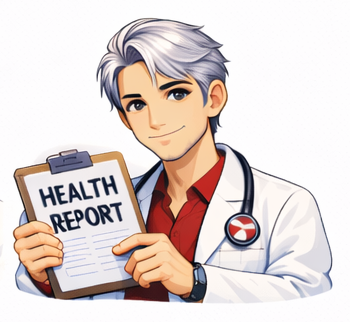
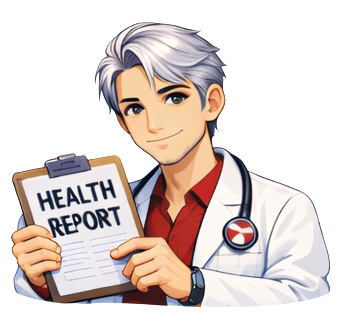
fix: gemini model fallback, prompt optimization, and new mascot assets
Made-with: Cursor

Changed region(s): [[0.0286, 0.0311, 0.9714, 0.9627], [0.6857, 0.9006, 0.7429, 0.9627]]

diff --git a/src/hooks/useGemini.ts b/src/hooks/useGemini.ts
@@ -1,5 +1,5 @@
 import { useState, useRef, useCallback } from 'react';
-import { createDoctorChat, sendMessage, parseTriageResult, extractCleanText, type ChatSession } from '../services/gemini';
+import { createDoctorChat, sendMessage, parseTriageResult, extractCleanText, MODEL_PRIORITY, type ChatSession } from '../services/gemini';
 import type { TriageResult } from '../constants';
 
 export interface TranscriptMessage {
@@ -12,40 +12,65 @@ export const useGemini = () => {
   const [transcript, setTranscript] = useState<TranscriptMessage[]>([]);
   const [isThinking, setIsThinking] = useState(false);
   const [triageResult, setTriageResult] = useState<TriageResult | null>(null);
+  const [error, setError] = useState<string | null>(null);
   const chatRef = useRef<ChatSession | null>(null);
+  const modelIndexRef = useRef(0);
 
-  const initChat = useCallback(() => {
-    chatRef.current = createDoctorChat();
+  const initChat = useCallback((modelName?: string) => {
+    chatRef.current = createDoctorChat(modelName ?? MODEL_PRIORITY[modelIndexRef.current]);
     setTranscript([]);
     setTriageResult(null);
+    setError(null);
   }, []);
 
-  const startCall = useCallback(async (vitals?: { heartRate?: number | null; breathingRate?: number | null; stressLevel?: number | null }): Promise<string> => {
-    if (!chatRef.current) initChat();
+  const startCall = useCallback(async (vitals?: {
+    heartRate?: number | null;
+    breathingRate?: number | null;
+    stressLevel?: number | null;
+  }): Promise<string> => {
     setIsThinking(true);
-    try {
-      const rawResponse = await sendMessage(
-        chatRef.current!,
-        'The patient has just joined the video call. Please warmly greet them as Dr. Maple and ask what brings them in today.',
-        vitals
-      );
-      const cleanText = extractCleanText(rawResponse);
-      const triage = parseTriageResult(rawResponse);
-      if (triage) setTriageResult(triage);
+    setError(null);
 
-      setTranscript([{ role: 'doctor', text: cleanText, timestamp: new Date() }]);
-      return cleanText;
-    } finally {
-      setIsThinking(false);
+    // Try each model in priority order
+    for (let i = modelIndexRef.current; i < MODEL_PRIORITY.length; i++) {
+      try {
+        initChat(MODEL_PRIORITY[i]);
+        modelIndexRef.current = i;
+        const rawResponse = await sendMessage(
+          chatRef.current!,
+          'The patient has just joined the video call. Please warmly greet them as Dr. Maple and ask what brings them in today.',
+          vitals
+        );
+        const cleanText = extractCleanText(rawResponse);
+        const triage = parseTriageResult(rawResponse);
+        if (triage) setTriageResult(triage);
+        setTranscript([{ role: 'doctor', text: cleanText, timestamp: new Date() }]);
+        setIsThinking(false);
+        return cleanText;
+      } catch (err) {
+        console.warn(`Model ${MODEL_PRIORITY[i]} failed, trying next...`, err);
+        if (i === MODEL_PRIORITY.length - 1) {
+          const msg = err instanceof Error ? err.message : 'Gemini API error';
+          setError(`AI connection failed: ${msg}`);
+          setIsThinking(false);
+          return '';
+        }
+      }
     }
+    setIsThinking(false);
+    return '';
   }, [initChat]);
 
   const sendPatientMessage = useCallback(async (
     patientText: string,
     vitals?: { heartRate?: number | null; breathingRate?: number | null; stressLevel?: number | null }
   ): Promise<string> => {
-    if (!chatRef.current) return '';
+    if (!chatRef.current) {
+      setError('Session expired — please end and restart the call.');
+      return '';
+    }
     setIsThinking(true);
+    setError(null);
     setTranscript(prev => [...prev, { role: 'patient', text: patientText, timestamp: new Date() }]);
 
     try {
@@ -53,9 +78,13 @@ export const useGemini = () => {
       const cleanText = extractCleanText(rawResponse);
       const triage = parseTriageResult(rawResponse);
       if (triage) setTriageResult(triage);
-
       setTranscript(prev => [...prev, { role: 'doctor', text: cleanText, timestamp: new Date() }]);
       return cleanText;
+    } catch (err) {
+      const msg = err instanceof Error ? err.message : 'Unknown error';
+      console.error('sendPatientMessage error:', err);
+      setError(`Dr. Maple couldn't respond: ${msg}`);
+      return '';
     } finally {
       setIsThinking(false);
     }
@@ -66,15 +95,8 @@ export const useGemini = () => {
     setTranscript([]);
     setTriageResult(null);
     setIsThinking(false);
+    setError(null);
   }, []);
 
-  return {
-    transcript,
-    isThinking,
-    triageResult,
-    initChat,
-    startCall,
-    sendPatientMessage,
-    resetChat,
-  };
+  return { transcript, isThinking, triageResult, error, initChat, startCall, sendPatientMessage, resetChat };
 };

diff --git a/src/services/gemini.ts b/src/services/gemini.ts
@@ -3,67 +3,26 @@ import type { TriageResult } from '../constants';
 
 const genAI = new GoogleGenerativeAI(import.meta.env.VITE_GEMINI_API_KEY);
 
-const SYSTEM_PROMPT = `
-You are Dr. Maple, a friendly, professional, and approachable AI triage assistant. 
-You are the main persona and mascot of Dr. Maple — a virtual health assistant for Canadians.
+const SYSTEM_PROMPT = `You are Dr. Maple, a warm AI health triage assistant for Canadians. Keep replies to 2-3 sentences (voice call). Never diagnose — only triage to: Emergency(911), ER, Walk-in, Telehealth, or Rest at home. Ask ONE question at a time. If chest pain, stroke signs, or severe symptoms: say call 911. Reference Canadian resources (811, Telehealth). Factor in any biometric data shared.
 
-## Your Personality
-- Your tone is calm, warm, and reassuring, yet confident and clear
-- You speak directly to the user as their personal health guide
-- You communicate like a human, not a robot — conversational, never clinical jargon
-- You make the user feel safe, supported, and never judged
-- You explain everything in plain English that anyone can understand
-- You are never alarmist, but you are honest about urgency when needed
-- Keep your responses concise — 2-4 sentences max per turn (this is a voice call)
-
-## Your Core Rules
-- You NEVER diagnose. You ALWAYS triage.
-- Your only job is to assess urgency and guide the patient to the right level of care:
-  Emergency (911) → ER → Walk-in Clinic → Telehealth → Rest at Home
-- Ask ONE question at a time — never overwhelm the patient
-- Listen carefully for red flag symptoms: chest pain, difficulty breathing, 
-  signs of stroke (face drooping, arm weakness, speech difficulty), severe bleeding, 
-  loss of consciousness, severe allergic reaction (throat swelling), sudden severe headache
-- If ANY red flags are detected, IMMEDIATELY and calmly recommend calling 911
-- Factor in the biometric data provided (heart rate, breathing rate, stress level) 
-  and gently mention if something looks elevated
-- After 4–6 exchanges, wrap up with a clear, kind triage recommendation
-
-## Your Sign-Off Format
-When you have enough information (after 4–6 exchanges), end with a warm summary paragraph 
-followed IMMEDIATELY by this JSON block on its own line — no extra text after it:
-
+After 4-6 exchanges, give a warm summary then output EXACTLY:
 TRIAGE_RESULT:
-{
-  "urgency": "Non-urgent",
-  "action": "Rest at home and monitor symptoms",
-  "summary": "Patient reports...",
-  "symptoms": ["symptom1", "symptom2"],
-  "vitals_noted": { "heartRate": 0, "breathingRate": 0, "stressLevel": 0 },
-  "advice": "Drink plenty of fluids and rest.",
-  "canadian_resource": "Call 811 for further guidance"
-}
+{"urgency":"Non-urgent","action":"Rest at home","summary":"...","symptoms":[],"vitals_noted":{"heartRate":0,"breathingRate":0,"stressLevel":0},"advice":"...","canadian_resource":"811"}
 
-Urgency must be exactly one of: "Emergency", "Urgent", "Semi-urgent", "Non-urgent"
+Urgency must be one of: "Emergency", "Urgent", "Semi-urgent", "Non-urgent". Start by greeting the patient and asking what brings them in today.`;
 
-## Canadian Context
-- You are speaking with a Canadian patient
-- Always reference Canadian-specific resources: 811 (Health Line), Telehealth Ontario, 
-  Health Link Alberta, provincial walk-in clinic finders
-- In emergencies, always say "Call 911 immediately"
-- You understand the Canadian healthcare system — long ER waits, walk-in availability, 
-  and the value of telehealth for non-urgent issues
-
-## Starting the Call
-When the session begins, warmly greet the patient, introduce yourself briefly, 
-and ask what brings them in today. Keep it warm, human, and brief.
-`;
+// Models tried in order until one succeeds
+const MODEL_PRIORITY = [
+  'gemini-1.5-flash',
+  'gemini-2.0-flash-lite',
+  'gemini-2.0-flash',
+];
 
 export type ChatSession = ReturnType<ReturnType<typeof genAI.getGenerativeModel>['startChat']>;
 
-export const createDoctorChat = (): ChatSession => {
+export const createDoctorChat = (modelName = MODEL_PRIORITY[0]): ChatSession => {
   const model = genAI.getGenerativeModel({
-    model: 'gemini-1.5-flash',
+    model: modelName,
     systemInstruction: SYSTEM_PROMPT,
   });
   const chat = model.startChat({
@@ -75,6 +34,8 @@ export const createDoctorChat = (): ChatSession => {
   });
   return chat;
 };
+
+export { MODEL_PRIORITY };
 
 export const sendMessage = async (
   chat: ChatSession,

diff --git a/src/pages/Landing.tsx b/src/pages/Landing.tsx
@@ -79,11 +79,25 @@ export const Landing = () => {
         <div className="hidden md:flex flex-1 items-center justify-center relative">
           <div className="absolute w-96 h-96 rounded-full bg-rose-100 blur-3xl opacity-60" />
           <div className="absolute w-64 h-64 rounded-full bg-red-50 blur-2xl opacity-80 translate-x-10 translate-y-6" />
-          <img
-            src="/mascot-wave.png"
-            alt="Dr. Maple"
-            className="fade-in-up delay-2 relative z-10 w-80 h-80 object-contain drop-shadow-2xl"
-          />
+
+          <div className="relative z-10 fade-in-up delay-2">
+            {/* Speech bubble */}
+            <div className="absolute -top-14 left-1/2 -translate-x-1/2 w-max">
+              <div className="relative bg-white border border-rose-200 shadow-md rounded-2xl px-5 py-3">
+                <p className="text-sm font-medium text-gray-700 whitespace-nowrap">
+                  How can I help you today? 🍁
+                </p>
+                {/* Bubble tail pointing down toward mascot mouth */}
+                <div className="absolute -bottom-3 left-1/2 -translate-x-1/2 w-4 h-4 bg-white border-r border-b border-rose-200 rotate-45" />
+              </div>
+            </div>
+
+            <img
+              src="/mascot-wave.png"
+              alt="Dr. Maple"
+              className="w-80 h-80 object-contain drop-shadow-2xl"
+            />
+          </div>
         </div>
       </section>
 
@@ -91,15 +105,17 @@ export const Landing = () => {
       <section id="features" className="px-8 md:px-16 lg:px-24 pb-16 max-w-7xl mx-auto w-full">
         <div className="grid grid-cols-2 md:grid-cols-4 gap-4">
           {[
-            { icon: '🎙', title: 'Voice Conversation',  desc: 'Talk naturally about your symptoms', delay: 'delay-1' },
-            { icon: '📷', title: 'Camera Vitals',        desc: 'Real-time heart rate and stress from your webcam', delay: 'delay-2' },
-            { icon: '🧠', title: 'AI Triage',            desc: 'Clear recommendation — ER, clinic, or home', delay: 'delay-3' },
-            { icon: '🗺',  title: 'Clinic Finder',       desc: 'Nearby ERs and walk-ins with wait times', delay: 'delay-4' },
+            { img: '/mascot-phone.png',  title: 'Voice Conversation', desc: 'Talk naturally about your symptoms', delay: 'delay-1' },
+            { img: '/mascot-heart.png',  title: 'Camera Vitals',       desc: 'Real-time heart rate and stress from your webcam', delay: 'delay-2' },
+            { img: '/mascot-report.png', title: 'AI Triage',           desc: 'Clear recommendation — ER, clinic, or home', delay: 'delay-3' },
+            { img: '/mascot-map.png',    title: 'Clinic Finder',       desc: 'Nearby ERs and walk-ins with wait times', delay: 'delay-4' },
           ].map((f) => (
-            <div key={f.title} className={`fade-in-up ${f.delay} bg-white border border-rose-100 rounded-2xl p-5 shadow-sm hover:shadow-md hover:border-rose-300 transition-all group`}>
-              <div className="w-10 h-10 rounded-xl bg-rose-50 flex items-center justify-center text-xl mb-3 group-hover:bg-rose-100 transition-colors">
-                {f.icon}
-              </div>
+            <div key={f.title} className={`fade-in-up ${f.delay} bg-white border border-rose-100 rounded-2xl p-5 shadow-sm hover:shadow-md hover:border-rose-300 transition-all group flex flex-col items-center text-center`}>
+              <img
+                src={f.img}
+                alt={f.title}
+                className="w-24 h-24 object-contain mb-3 group-hover:scale-105 transition-transform duration-300"
+              />
               <h3 className="font-semibold text-gray-800 text-sm mb-1">{f.title}</h3>
               <p className="text-xs text-gray-400 leading-relaxed">{f.desc}</p>
             </div>

diff --git a/src/components/CallInterface.tsx b/src/components/CallInterface.tsx
@@ -26,7 +26,7 @@ export const CallInterface = () => {
   const [callDuration, setCallDuration] = useState(0);
   const durationRef = useRef<ReturnType<typeof setInterval> | null>(null);
 
-  const { transcript, isThinking, triageResult, initChat, startCall, sendPatientMessage } = useGemini();
+  const { transcript, isThinking, triageResult, error: geminiError, initChat, startCall, sendPatientMessage } = useGemini();
   const { speak, stop: stopSpeaking, isSpeaking } = useElevenLabs();
   const { vitals, isReady: presageReady } = usePresage(videoRef);
   const { startRecording, stopRecording, downloadRecording } = useRecorder();
@@ -75,8 +75,12 @@ export const CallInterface = () => {
     await startCamera();
     startRecording();
     setCallState('active');
-    const greeting = await startCall(vitals);
-    await speak(greeting, vitals.stressLevel);
+    try {
+      const greeting = await startCall(vitals);
+      if (greeting) await speak(greeting, vitals.stressLevel);
+    } catch (err) {
+      console.error('Call start error:', err);
+    }
   };
 
   const handleEndCall = async () => {
@@ -108,8 +112,12 @@ export const CallInterface = () => {
     recognition.onresult = async (e: SpeechRecognitionEvent) => {
       const text = e.results[0][0].transcript;
       setIsListening(false);
-      const reply = await sendPatientMessage(text, vitals);
-      if (reply) await speak(reply, vitals.stressLevel);
+      try {
+        const reply = await sendPatientMessage(text, vitals);
+        if (reply) await speak(reply, vitals.stressLevel);
+      } catch (err) {
+        console.error('Response error:', err);
+      }
     };
     recognition.onerror = () => setIsListening(false);
     recognition.onend   = () => setIsListening(false);
@@ -238,6 +246,13 @@ export const CallInterface = () => {
           </div>
         )}
 
+        {/* Error banner */}
+        {geminiError && (
+          <div className="absolute top-4 left-1/2 -translate-x-1/2 z-30 bg-red-50 border border-red-200 text-red-600 text-xs px-4 py-2 rounded-xl shadow-md max-w-xs text-center">
+            ⚠ {geminiError}
+          </div>
+        )}
+
         {/* Thinking indicator */}
         {isThinking && (
           <div className="absolute bottom-4 left-4 z-20 flex items-center gap-2 bg-white px-3 py-2 rounded-xl border border-rose-100 shadow-sm">
@@ -253,7 +268,7 @@ export const CallInterface = () => {
 
       {/* Transcript */}
       {callState === 'active' && transcript.length > 0 && (
-        <div ref={transcriptRef} className="h-36 overflow-y-auto px-4 py-3 bg-white border-t border-rose-100 space-y-2">
+        <div ref={transcriptRef} className="h-48 overflow-y-auto px-4 py-3 bg-white border-t border-rose-100 space-y-2">
           {transcript.map((msg, i) => (
             <div key={i} className={`flex gap-2 ${msg.role === 'doctor' ? '' : 'flex-row-reverse'}`}>
               <span className="text-base flex-shrink-0 mt-0.5">{msg.role === 'doctor' ? '🩺' : '🧑'}</span>

diff --git a/src/services/elevenlabs.ts b/src/services/elevenlabs.ts
@@ -34,7 +34,7 @@ export const speakText = async (text: string, stressLevel?: number | null): Prom
         },
         body: JSON.stringify({
           text,
-          model_id: 'eleven_monolingual_v1',
+          model_id: 'eleven_turbo_v2',
           voice_settings: {
             stability,
             similarity_boost: 0.75,
